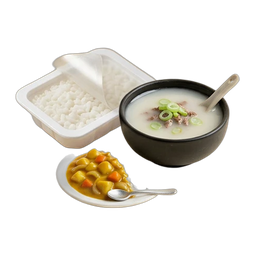
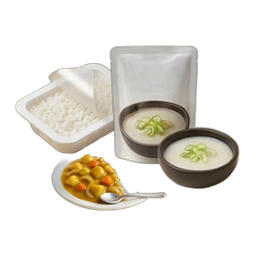
부침가루 포장 글씨 지우기, 실온 간편식 곰탕을 글씨 없는 파우치로
Claude-Session: https://claude.ai/code/session_01MYGhb6R2QXY6quyyhQiczg

diff --git a/public/sw.js b/public/sw.js
@@ -3,7 +3,7 @@
 // - 그림·스크립트 등: 저장해 둔 것 먼저 (빌드 파일 이름이 바뀌므로 오래된 것이 남지 않음)
 // - /api/ (AI 연결 서버)는 저장하지 않는다
 
-const CACHE = 'fridge-planner-v10'; // 2026-11-10: 재료 15개·대표 그림 3개를 바꿈 (같은 파일 이름이라 예전 그림이 남지 않게)
+const CACHE = 'fridge-planner-v11'; // 2026-11-10: 부침가루·실온 간편식 그림 글씨 지움 (같은 파일 이름이라 예전 그림이 남지 않게)
 
 self.addEventListener('install', () => self.skipWaiting());
 self.addEventListener('activate', (e) => {
